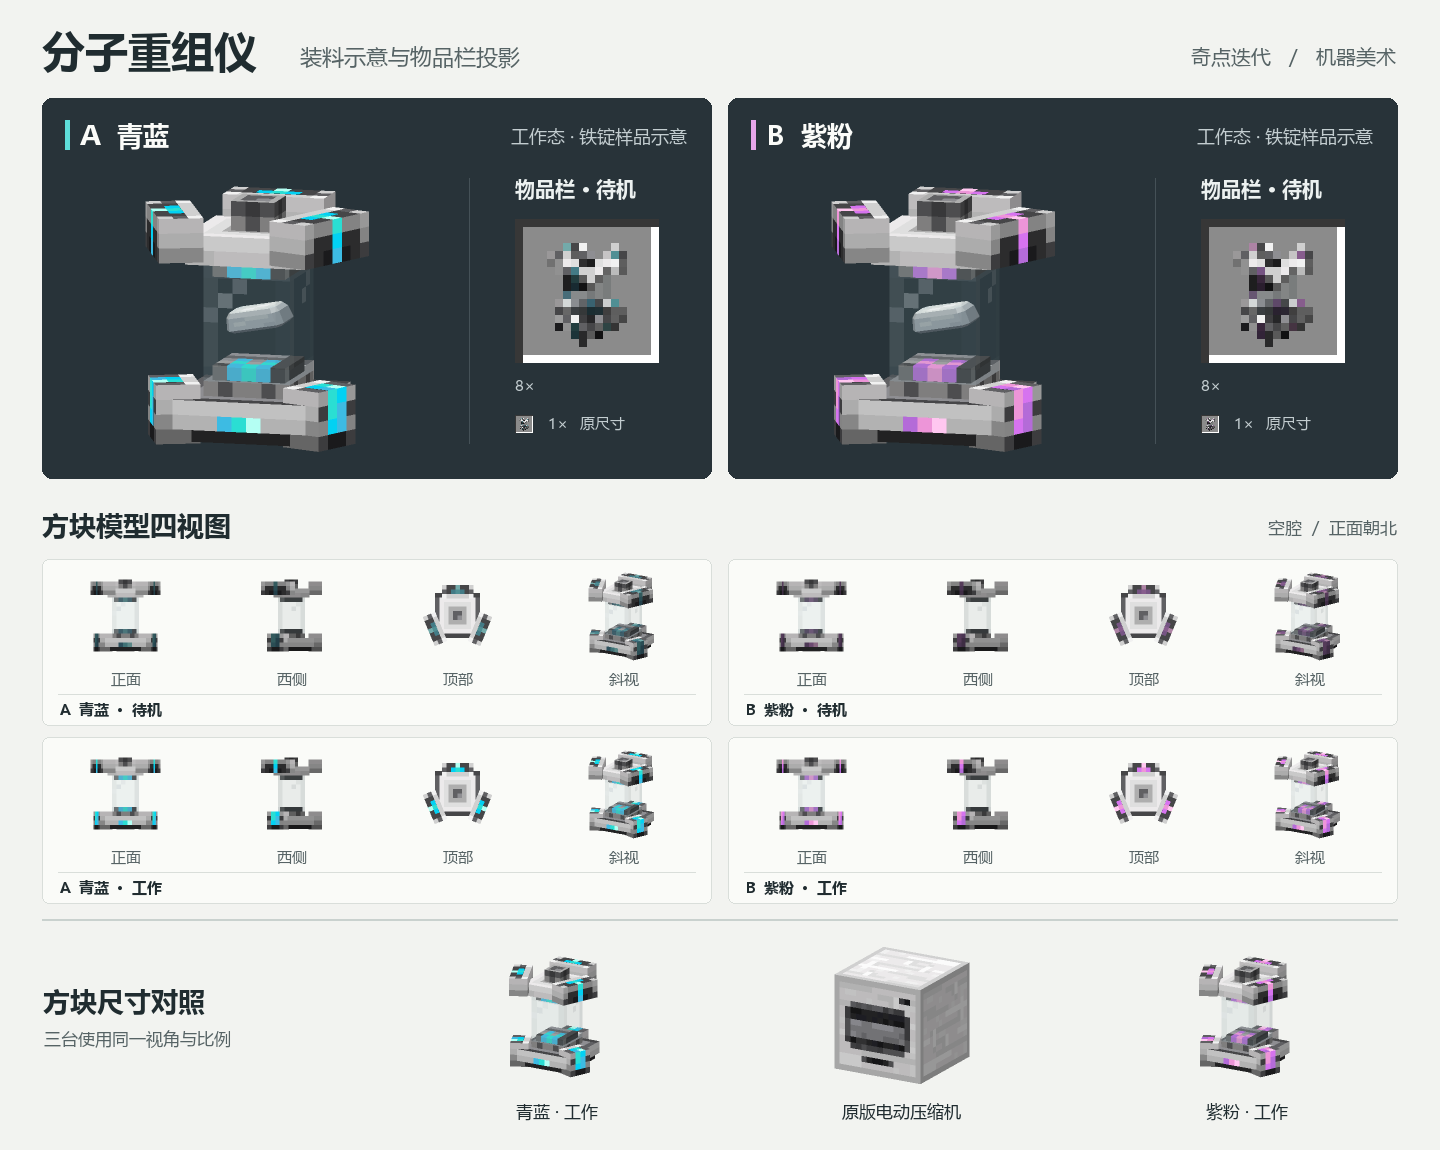
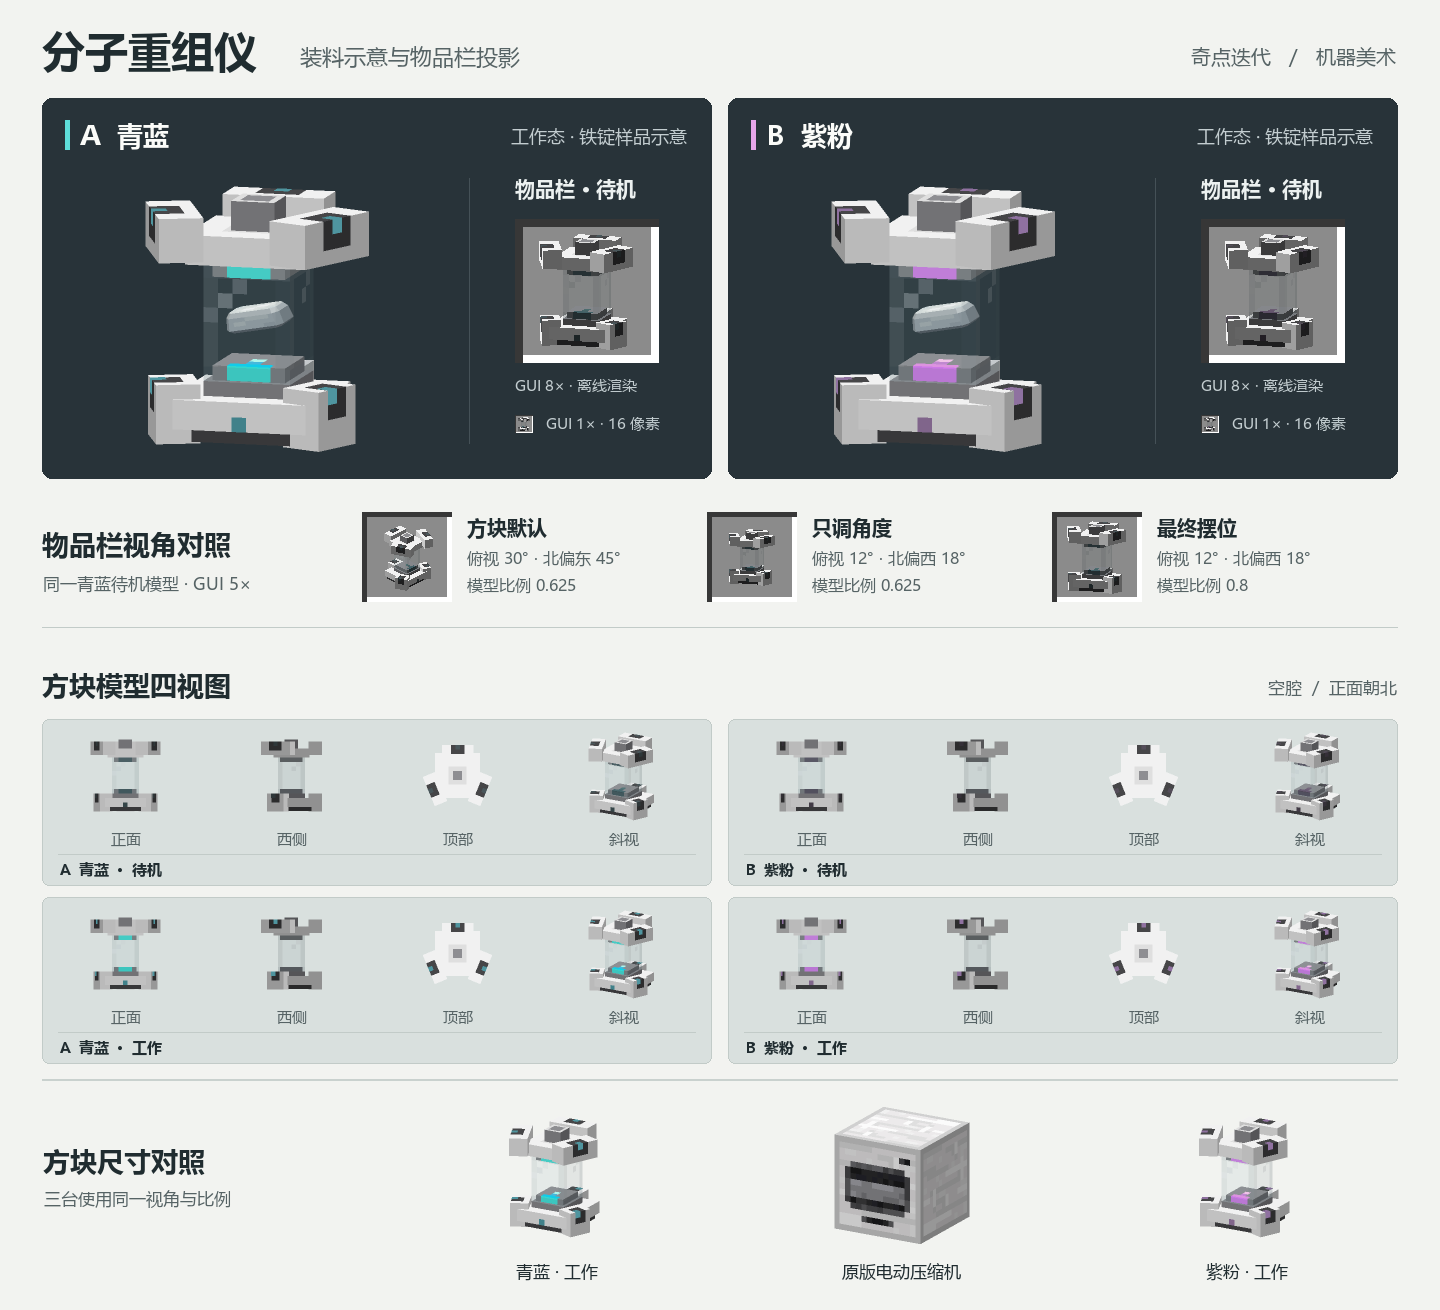
Art: unify the transformer finish and lower its inventory view

diff --git a/tools/art/mt1_model.py b/tools/art/mt1_model.py
@@ -12,17 +12,17 @@ PARTS = Path("block/producer/molecular_transformer")
 TEXTURE_REF = "mio_icif:" + PARTS.as_posix() + "/"
 SIDES = ("north", "east", "south", "west")
 ALL = (*SIDES, "up", "down")
-DARK, IRON, STEEL, MID = "#2A2A2C", "#464648", "#606063", "#8E8E92"
-SHADOW, EDGE, SEAM = "#838383", "#AEAEAE", "#D0D0D0"
-WHITE, PEARL, LIT, GLINT = "#DFDFDF", "#ECEAEB", "#F1F1F1", "#FBFBFB"
+PORCELAIN, SEAM = "#F1F1F1", "#DFDFDF"
+STEEL, GRAPHITE = "#8E8E92", "#464648"
+# Outer electrode, status, field lip, field surface, inner contact, hot spot.
 PALETTES = {
     "a": {
-        "off": ("#26353D", "#304B58", "#386474", "#437B86", "#508F94", "#73AAAA"),
-        "on": ("#145267", "#137F98", "#3DBBE3", "#02D1F3", "#2ADED3", "#B4FFF3"),
+        "off": ("#49575B", "#43575B", "#3D5A60", "#426168", "#47676C", "#4D7072"),
+        "on": ("#4F959F", "#41818A", "#2ADED3", "#02D1F3", "#3DBBE3", "#B4FFF3"),
     },
     "b": {
-        "off": ("#342D3C", "#4C3957", "#62476C", "#765483", "#875D8D", "#AC83A4"),
-        "on": ("#563165", "#86489B", "#B46BD8", "#D673EF", "#ED95D8", "#FFC7F0"),
+        "off": ("#544D59", "#514956", "#594C62", "#64526B", "#6A5671", "#715F77"),
+        "on": ("#8F71A0", "#80658B", "#D673EF", "#E891E8", "#C884D5", "#FFC7F0"),
     },
 }
 
@@ -35,89 +35,26 @@ def canvas(color):
 def neutral_parts():
     textures = {}
 
-    # Packed horizontal strips for the central castings and terminal housings.
-    img, d = canvas(WHITE)
-    for row, tint in enumerate((LIT, WHITE, EDGE, PEARL, SEAM, GLINT, WHITE, EDGE,
-                                IRON, STEEL, MID, "#9F9E9E", PEARL, WHITE, EDGE, SHADOW)):
-        d.line((0, row, 15, row), fill=tint)
-    for x in (1, 14):
-        d.point((x, 1), fill="#9F9E9E")
-    d.line((3, 8, 12, 8), fill=MID)
-    d.line((6, 8, 10, 8), fill=IRON)
-    d.line((3, 9, 12, 9), fill=EDGE)
-    for x in (3, 12):
-        d.point((x, 3), fill=SEAM)
-    d.line((6, 6, 9, 6), fill=PEARL)
-    d.point((1, 6), fill="#9F9E9E")
-    d.point((12, 6), fill="#9F9E9E")
-    textures["shell"] = img
-
-    # White flange and a graphite-lined well under the sample sleeve.
-    img, d = canvas(PEARL)
-    d.rectangle((0, 0, 15, 15), outline=SEAM)
-    d.line((1, 0, 14, 0), fill=LIT)
-    d.line((0, 1, 0, 14), fill=WHITE)
-    d.rectangle((2, 2, 13, 13), fill=EDGE, outline=WHITE)
-    d.rectangle((3, 2, 12, 13), fill=IRON)
-    d.rectangle((2, 4, 13, 11), fill=IRON)
-    d.rectangle((3, 4, 12, 11), fill=STEEL)
-    d.rectangle((4, 4, 11, 11), fill=MID)
-    for x, z in ((1, 1), (14, 1), (1, 14), (14, 14)):
-        d.point((x, z), fill=SHADOW)
+    # All unbroken faces of the castings use the same fired ceramic. Face
+    # lighting supplies the edge contrast at each change of direction.
+    textures["shell"] = Image.new("RGBA", (16, 16), PORCELAIN)
+    img, d = canvas(PORCELAIN)
+    d.rectangle((5, 5, 10, 10), fill=STEEL)
     textures["deck"] = img
 
-    # The EV transformer family has a dark central terminal in a square
-    # insulating seat, flanked by two rows of contacts on the outer casting.
-    img, d = canvas(PEARL)
-    d.rectangle((1, 1, 14, 14), outline=WHITE)
-    d.line((2, 1, 13, 1), fill=GLINT)
-    d.line((1, 2, 1, 13), fill=LIT)
-    d.line((3, 4, 3, 11), fill=SEAM)
-    d.line((12, 4, 12, 11), fill=SEAM)
-    for x in (3, 12):
-        for y in (5, 9):
-            d.line((x, y, x, y + 1), fill=EDGE)
-    d.rectangle((5, 5, 10, 10), fill=WHITE)
-    d.rectangle((6, 6, 9, 9), fill=EDGE)
+    # The removable top contact sits inside a quiet square seat.
+    img, d = canvas(PORCELAIN)
+    d.rectangle((6, 6, 9, 9), fill=SEAM)
     d.rectangle((7, 7, 8, 8), fill=STEEL)
-    d.point((7, 7), fill=MID)
-    for x, y in ((2, 2), (13, 2), (2, 13), (13, 13)):
-        d.point((x, y), fill=EDGE)
     textures["service_hatch"] = img
 
-    # Hardware atlas. The top two rows are winding laminations, the tall panel
-    # below them is the exposed return spine, the bottom rows are the dark lip.
-    img, d = canvas(IRON)
-    d.line((0, 0, 15, 0), fill=MID)
-    d.line((0, 1, 15, 1), fill=STEEL)
-    d.rectangle((0, 2, 15, 3), fill="#9F9E9E")
-    for x in (1, 4, 7, 10, 13):
-        d.line((x, 0, x, 1), fill=IRON)
-        d.point((x, 2), fill=STEEL)
-    for y in range(5, 12, 2):
-        d.line((0, y, 15, y), fill=STEEL)
-    d.line((0, 12, 15, 12), fill=IRON)
-    d.line((0, 13, 15, 13), fill=DARK)
-    d.line((0, 14, 15, 14), fill=STEEL)
-    d.line((0, 15, 15, 15), fill=SHADOW)
+    # Steel on the sleeve seal and tip fittings; a graphite sole is visible
+    # below the ceramic base. Keep the undersides of the radial arms plain.
+    img, d = canvas(STEEL)
+    d.line((0, 13, 15, 13), fill=GRAPHITE)
     textures["hardware"] = img
-
     textures["return_housing"] = terminals()
-
-    # Dark, thick, segmented reflector plates with exposed clamp jaws. UV
-    # islands occupy the first 8 columns (surface) and strips at rows 9..12.
-    img, d = canvas(IRON)
-    d.rectangle((0, 0, 7, 6), fill=STEEL, outline=IRON)
-    for x in (1, 4):
-        d.rectangle((x, 1, x + 2, 4), fill=MID)
-        d.line((x, 1, x + 2, 1), fill="#9F9E9E")
-        d.line((x, 3, x + 2, 3), fill=STEEL)
-    d.line((0, 9, 15, 9), fill=MID)
-    d.line((0, 10, 15, 10), fill=IRON)
-    d.line((0, 11, 15, 11), fill=STEEL)
-    for x in (0, 7):
-        d.point((x, 10), fill=SHADOW)
-    textures["reflector"] = img
+    textures["reflector"] = Image.new("RGBA", (16, 16), STEEL)
 
     # Each 6x8 pane has a pale edge seal, and one short glint away from the
     # specimen. This transmits the real background through all four sides.
@@ -137,19 +74,21 @@ def neutral_parts():
 def terminals(signal=None):
     """Paint the three orientations of a clamped, insulated bus contact."""
     if signal is None:
-        img, d = canvas(IRON)
-        crown = ("8777778", "5066605", "7000007")
-        foot = ("8778", "5065", "5665")
-        crown_side = ("8777778", "7006007", "5066605")
-        foot_side = ("8778", "5665", "7007", "5665")
-        colors = (IRON, IRON, IRON, IRON, IRON, STEEL, DARK, SEAM, LIT)
+        img, _ = canvas(PORCELAIN)
+        # The outermost row of the top tile meets the first row on its flank.
+        # Identical graphite runs on both sides of the fold form one socket.
+        crown = ("0000000", "0011100", "0011100")
+        foot = ("0000", "0110", "0110")
+        crown_side = ("0011100", "0011100", "0000000")
+        foot_side = ("0110", "0110", "0000", "0000")
+        colors = (PORCELAIN, GRAPHITE)
     else:
-        img, d = canvas((0, 0, 0, 0))
-        crown = (".......", "..343..", "...5...")
-        foot = ("....", ".34.", ".25.")
-        crown_side = ("...4...", "...3...", "...2...")
-        foot_side = (".43.", ".42.", ".32.", "....")
-        colors = signal
+        img, _ = canvas((0, 0, 0, 0))
+        crown = (".......", ".......", "...0...")
+        foot = ("....", "....", ".0..")
+        crown_side = ("...0...", ".......", ".......")
+        foot_side = (".0..", "....", "....", "....")
+        colors = (signal,)
 
     def tile(rows):
         result = Image.new("RGBA", (len(rows[0]), len(rows)))
@@ -176,17 +115,17 @@ def field_parts(palette):
     for state, colors in palette.items():
         suffix = "_on" if state == "on" else ""
         img, d = canvas((0, 0, 0, 0))
-        # Facing sides and front lips share the same central field contact.
-        for x, z, s in ((1, 0, 2), (2, 0, 4), (3, 0, 2),
-                        (1, 1, 4), (3, 1, 4), (1, 2, 2), (3, 2, 2)):
-            d.point((x, z), fill=colors[s])
-            d.point((8 + x, 4 - z), fill=colors[s])
-        for x, s in ((1, 2), (2, 4), (3, 2)):
-            d.point((x, 8), fill=colors[s])
-        for x, s in enumerate((2, 4, 5)):
-            d.point((x, 12), fill=colors[s])
+        electrode, status, lip, surface, contact, hot = colors
+        # One uninterrupted emitting edge at each tip. The brightest pixel
+        # lies on the inward-facing surface, close to the suspended sample.
+        for x, z, color in ((1, 0, surface), (2, 0, surface), (3, 0, surface),
+                            (2, 1, contact), (2, 2, hot)):
+            d.point((x, z), fill=color)
+            d.point((8 + x, 4 - z), fill=color)
+        d.line((1, 8, 3, 8), fill=lip)
+        d.point((1, 12), fill=status)
         textures["field_marks" + suffix] = img
-        textures["electrode_signal" + suffix] = terminals(colors)
+        textures["electrode_signal" + suffix] = terminals(electrode)
     return textures
 
 

diff --git a/tools/art/mt1_preview.py b/tools/art/mt1_preview.py
@@ -33,7 +33,7 @@ SLOT_GRAY = "#8b8b8b"
 ISO = (-0.57, 0.39, -1.0)
 LOADED_VIEW = (-0.27, 0.18, -1.0)
 VIEWS = ((0, 0, -1), (-1, 0, 0), (0, 1, 0), ISO)
-PAPER, WHITE, LINE = "#f2f3f0", "#fafbf8", "#d9deda"
+PAPER, VIEW_SURFACE, LINE = "#f2f3f0", "#d9e0de", "#c2cbc8"
 INK, MUTED = "#202c30", "#566365"
 STAGE, PALE = "#283339", "#c3cdd0"
 ACCENTS = ("#5eddd9", "#e7a6ea")
@@ -252,8 +252,7 @@ def find_font(override, bold):
     raise SystemExit("Install a Chinese font or pass --font /path/to/font.otf")
 
 
-def inventory_projection(bank):
-    """Bake the actual item parent, then apply the 1.21.1 GUI pose at one pixel per GUI unit."""
+def inventory_model():
     item = json.loads(ITEM_MODEL.read_text(encoding="utf8"))
     namespace, ref = item["parent"].split(":")
     model_path = ASSETS / "models" / (ref + ".json")
@@ -261,6 +260,13 @@ def inventory_projection(bank):
     if namespace != "mio_icif" or model_path.parent != MODELS or model["parent"] != "minecraft:block/block":
         raise ValueError(f"Unexpected machine item parent chain: {item['parent']} / {model['parent']}")
     gui = item.get("display", {}).get("gui", model.get("display", {}).get("gui", BLOCK_GUI))
+    return model_path.stem, gui
+
+
+def inventory_projection(bank, density=1, *, pose=None):
+    """Render the item parent directly at the selected Minecraft GUI pixel density."""
+    model_name, selected_gui = inventory_model()
+    gui = pose or selected_gui
     rx, ry, rz = gui.get("rotation", (0, 0, 0))
     scale = np.array(gui.get("scale", (1, 1, 1)))
     translation = np.array(gui.get("translation", (0, 0, 0)))
@@ -272,25 +278,28 @@ def inventory_projection(bank):
         basis.append(unit)
     rotation = np.array(basis)
     projected = []
-    for corners, uv, normal, pixels, translucent, light in faces(model_path.stem, bank, item=True):
+    for corners, uv, normal, pixels, translucent, light in faces(model_name, bank, item=True):
         vertices = ((corners - 8) * scale) @ rotation + translation + 8
         norm = (normal / scale) @ rotation
         projected.append((vertices, uv, norm / np.linalg.norm(norm), pixels, translucent, light))
-    return render(projected, (0, 0, 1), 1., (16, 16), SLOT_GRAY, item_gui=True)
+    return render(projected, (0, 0, 1), density, (16 * density, 16 * density), SLOT_GRAY, item_gui=True)
 
 
-def inventory_slot(sheet, icon, xy, magnification):
-    slot = Image.new("RGB", (18, 18), SLOT_GRAY)
+def inventory_slot(sheet, icon, xy):
+    density = icon.width // 16
+    size = 18 * density
+    slot = Image.new("RGB", (size, size), SLOT_GRAY)
     pen = ImageDraw.Draw(slot)
-    pen.line([(0, 17), (0, 0), (17, 0)], fill="#373737")
-    pen.line([(1, 17), (17, 17), (17, 1)], fill="#ffffff")
-    slot.paste(icon, (1, 1))
-    size = 18 * magnification
-    sheet.paste(slot.resize((size, size), Image.Resampling.NEAREST), xy)
+    pen.rectangle((0, 0, size - 1, density - 1), fill="#373737")
+    pen.rectangle((0, density, density - 1, size - 1), fill="#373737")
+    pen.rectangle((density, size - density, size - 1, size - 1), fill="#ffffff")
+    pen.rectangle((size - density, density, size - 1, size - 1), fill="#ffffff")
+    slot.paste(icon, (density, density))
+    sheet.paste(slot, xy)
 
 
 def make_sheet(font_path=None):
-    sheet = Image.new("RGB", (1440, 1150), PAPER)
+    sheet = Image.new("RGB", (1440, 1310), PAPER)
     draw = ImageDraw.Draw(sheet)
     fonts = tuple(find_font(font_path, bold) for bold in (False, True))
 
@@ -319,28 +328,43 @@ def make_sheet(font_path=None):
         sheet.paste(render(active + ingot, LOADED_VIEW, 15.0, (415, 311), STAGE), (left + 9, 161))
         draw.line((left + 427, 178, left + 427, 443), fill="#455157")
         label(left + 473, 188, "物品栏 · 待机", 20, "#ecf1f0", True)
-        icon = inventory_projection(bank)
-        inventory_slot(sheet, icon, (left + 473, 219), 8)
-        label(left + 473, 385, "8×", 15, PALE)
-        inventory_slot(sheet, icon, (left + 473, 415), 1)
-        label(left + 506, 423, "1×   原尺寸", 15, PALE)
+        inventory_slot(sheet, inventory_projection(bank, 8), (left + 473, 219))
+        label(left + 473, 385, "GUI 8× · 离线渲染", 15, PALE)
+        inventory_slot(sheet, inventory_projection(bank), (left + 473, 415))
+        label(left + 504, 423, "GUI 1× · 16 像素", 15, PALE)
 
-    label(42, 524, "方块模型四视图", 27, bold=True)
-    label(1397, 527, "空腔  /  正面朝北", 17, MUTED, anchor="rm")
+    # The middle slot changes just the rotation, showing what the angle contributes
+    # independently of the larger final scale. All three use the same idle assets.
+    _, selected_gui = inventory_model()
+    angle_only = dict(BLOCK_GUI, rotation=selected_gui["rotation"])
+    label(42, 543, "物品栏视角对照", 27, bold=True)
+    label(43, 583, "同一青蓝待机模型 · GUI 5×", 17, MUTED)
+    for i, (caption, gui) in enumerate((("方块默认", BLOCK_GUI), ("只调角度", angle_only), ("最终摆位", selected_gui))):
+        left = 362 + i * 345
+        inventory_slot(sheet, inventory_projection(VARIANTS[0], 5, pose=gui), (left, 512))
+        pitch, yaw, _ = gui["rotation"]
+        side = "北偏东" if yaw >= 180 else "北偏西"
+        label(left + 105, 527, caption, 20, bold=True)
+        label(left + 105, 558, f"俯视 {pitch}° · {side} {abs(yaw-180)}°", 16, MUTED)
+        label(left + 105, 585, f"模型比例 {gui['scale'][0]:g}", 16, MUTED)
+    draw.line((42, 627, 1397, 627), fill=LINE)
+
+    label(42, 684, "方块模型四视图", 27, bold=True)
+    label(1397, 687, "空腔  /  正面朝北", 17, MUTED, anchor="rm")
     for state, state_text in enumerate(("待机", "工作")):
         for version, states in enumerate(variants):
-            left, top = 42 + version * 686, 559 + state * 178
-            draw.rounded_rectangle((left, top, left + width, top + 166), 7, fill=WHITE, outline=LINE)
+            left, top = 42 + version * 686, 719 + state * 178
+            draw.rounded_rectangle((left, top, left + width, top + 166), 7, fill=VIEW_SURFACE, outline=LINE)
             for i, (eye, caption) in enumerate(zip(VIEWS, ("正面", "西侧", "顶部", "斜视"))):
                 mid = left + 84 + i * 166
-                sheet.paste(render(states[state], eye, 4.5, (139, 109), WHITE), (mid - 70, top + 2))
+                sheet.paste(render(states[state], eye, 4.5, (139, 109), VIEW_SURFACE), (mid - 70, top + 2))
                 label(mid, top + 120, caption, 15, MUTED, anchor="mm")
             draw.line((left + 16, top + 135, left + width - 16, top + 135), fill=LINE)
             label(left + 18, top + 150, LABELS[version] + "  ·  " + state_text, 15, INK, True)
 
     # Use the original compressor model and its atlas UVs, at the same world-unit
     # scale, centre and camera as the two candidate machines alongside it.
-    top = 939
+    top = 1099
     draw.line((42, top - 20, 1397, top - 20), fill="#c9d1ce", width=2)
     label(43, top + 61, "方块尺寸对照", 27, bold=True)
     label(44, top + 99, "三台使用同一视角与比例", 17, MUTED)

diff --git a/docs/art/mt1/README.md b/docs/art/mt1/README.md
@@ -1,6 +1,8 @@
 # 分子重组仪 · 三向电极与中央工作筒
 
-[青蓝与紫粉对照图](../previews/MT1.png)。主图的铁锭是客户端装料示意。物品栏格子使用各自的待机方块模型，按原版 GUI 角度、比例和侧光离线投影到 16 像素格，再作 8 倍最邻近放大。两套游戏资源都直接沿用方块物品模型。
+[青蓝与紫粉对照图](../previews/MT1.png)。两套工作模型的石墨嵌槽从电极上表面绕到外侧，顶冠和底脚使用连贯的瓷白外壳。亮色集中在贴近样品的上下作用面。示例铁锭只用于预演客户端装料。
+
+[原版生存背包实机对照](../previews/MT1-inventory-client.png)中依次为青蓝默认视角、青蓝新视角和紫粉新视角。物品栏直接绘制待机方块。图中分别按 16×16 和 128×128 像素离线绘制物品。下方用同一套青蓝材质并排比较默认视角、仅调角度、再调缩放的效果。
 
 外形参照 Minecraft 1.7.10 的 Advanced Solar Panels 3.5.1。原包实际绘制十个部件，中央工作筒上下各有三组相隔约 120° 的端头。三个方向都能看进工作区。旧模型还定义了七段式弓形支臂，实际绘制时跳过了这些中段。本版采用窄筒、分开的端头和露空机腰，用奇点迭代的白灰金属与两种工作色重新绘制。[作者发布的 3.5.1 安装包](https://forum.industrial-craft.net/core/attachment/4316-advancedsolarpanel-1-7-10-3-5-1-jar/) · [1.7.10 版本与文件校验值](https://mcarchive.net/mods/advancedsolarpanels?gvsn=1.7.10)
 
@@ -34,7 +36,7 @@ B 的几何与 A 共用。要在 Blockbench 直接查看紫粉色，从仓库根
 
 **显示输入物。** 样品中心移到 `[8,8,8]`，显示包围盒可收在 `[5.5,5.5,5.5]..[10.5,10.5,10.5]` 内。坐标单位为 1/16 格，随 `facing` 绕方块中心旋转。取输入槽的一件物品，空槽显示空腔。断电时按槽内实物显示。展示铁锭的主图使用预览脚本里的独立模型，随配方显示输入物由客户端接入。[输入槽](../../../src/main/java/com/miophas/singularity_iteration/common/blockentity/producer/mio_icif_molecular_transformer.java#L36) · [已有的物品绘制参考](../../../src/main/java/com/miophas/singularity_iteration/common/client/suit/QuantumModStationRenderer.java#L44)
 
-**工作状态与物品栏。** 方块服务端已按 `isWorking()` 切换 `lit`。物品模型现有的 `parent` 直接指向待机方块。库存、热键栏和创造模式物品列表都沿用这个模型。复核图中 16 像素格的投影参数来自原版 1.21.1 的 `minecraft:block/block`，即旋转 `[30,225,0]`、缩放 `[0.625,0.625,0.625]`、侧光。游戏能在不同 GUI 缩放下重绘几何。[工作状态](../../../src/main/java/com/miophas/singularity_iteration/common/block/producer/mio_icif_block_molecular_transformer.java#L114) · [物品模型](../../../src/main/resources/assets/mio_icif/models/item/producer/block_molecular_transformer.json)
+**工作状态与物品栏。** 方块服务端已按 `isWorking()` 切换 `lit`。物品继续继承待机方块，只有 `display.gui` 指定新摆位。原版俯角 30° 改为 12°，新旋转为 `[12,162,0]`，缩放由 0.625 改为 0.8。两版配色共享这一摆位，手持和掉落物继承原有视角。[工作状态](../../../src/main/java/com/miophas/singularity_iteration/common/block/producer/mio_icif_block_molecular_transformer.java#L114) · [物品模型](../../../src/main/resources/assets/mio_icif/models/item/producer/block_molecular_transformer.json)
 
 **碰撞与遮挡。** 模型各部件按下表布置。设置碰撞时可由这些位置合并出简化外形，机腰两侧和端头之间的开口需要保留。几何精确坐标、端头旋转原点均可从方块 JSON 读取。
 
@@ -47,4 +49,4 @@ B 的几何与 A 共用。要在 Blockbench 直接查看紫粉色，从仓库根
 
 ## 验证与待选
 
-批次检查器现校验物品父模型，以及两版镜像的方块贴图。仓库检查与 Gradle 离线构建通过。已验证 Blockbench 的内嵌贴图、UV、旋转与发给游戏的模型相符。A 青蓝和 B 紫粉均保留供选。
+批次检查器现校验物品父模型，以及两版镜像的方块贴图。仓库检查与 Gradle 离线构建通过。已验证 Blockbench 的内嵌贴图、UV、旋转与发给游戏的模型相符。已在 Minecraft 1.21.1 / NeoForge 21.1.248、GUI 缩放 3 的生存背包核对三组摆位与配色。实机对照图裁自相同槽位并作相同倍数放大。

diff --git a/docs/art/batches/MT1.md b/docs/art/batches/MT1.md
@@ -22,7 +22,7 @@
 | `tools/art/mt1_*.py` | 生成脚本（贴图、模型、预览） |
 | `docs/art/previews/MT1.png`（可加 `MT1-*.png`） | 预览，见第 6 节 |
 
-**不改：** 方块状态 `blockstates/producer/block_molecular_transformer.json`（`facing` 四向 + `lit`，`lit=true` 用 `_on` 模型）、物品模型 `models/item/producer/block_molecular_transformer.json`、Java 代码、语言文件、旧贴图 `block/producer/block_molecular_transformer.png`（接入时由 Claude 删除）。需要代码配合的地方写进报告的“给 Claude 的接入备注”。
+**不改：** 方块状态 `blockstates/producer/block_molecular_transformer.json`（`facing` 四向 + `lit`，`lit=true` 用 `_on` 模型）、Java 代码、语言文件、旧贴图 `block/producer/block_molecular_transformer.png`（接入时由 Claude 删除）。需要代码配合的地方写进报告的“给 Claude 的接入备注”。
 
 ## 3. 方块模型
 
@@ -54,7 +54,7 @@
 
 ## 4. 物品栏模型
 
-物品直接继承待机方块。A、B 两组预览都用各自的待机模型、部件贴图和原版 GUI 变换，展示格内原尺寸及其 8 倍放大。单独的物品 PNG 和手绘图标生成器已退役。
+物品直接继承待机方块。物品模型的 `display.gui` 可单独调节格内的俯角、朝向和缩放。A、B 使用同一视角，预览包含原尺寸格和按较高 GUI 分辨率重绘的格子。单独的物品 PNG 和手绘图标生成器已退役。
 
 ## 5. 配色
 
@@ -82,7 +82,7 @@
 1. A 版：待机、工作两套，每套正面、侧面、顶面、斜视四个视角；
 2. B 版：同上；
 3. 和奇点迭代的电动压缩机（`block/producer/block_compressor_elc.png` 横条做成的立方体）并排，比例一致；
-4. 两版待机方块在物品栏中的投影：放大 8 倍放在原版物品栏格子上（格子 `#8B8B8B`，左上边框 `#373737`，右下边框 `#FFFFFF`），另加一行 1 倍原尺寸；
+4. 两版待机方块在原版物品栏格子里以 1 倍与较高 GUI 缩放展示（格子 `#8B8B8B`，左上边框 `#373737`，右下边框 `#FFFFFF`）；
 5. 每组下面写 A / B 和状态。
 
 可以用仓库里的 `tools/art/item_model_preview.py` 渲染模型（不认组合模型时，自己把子模型合起来再渲染）。
